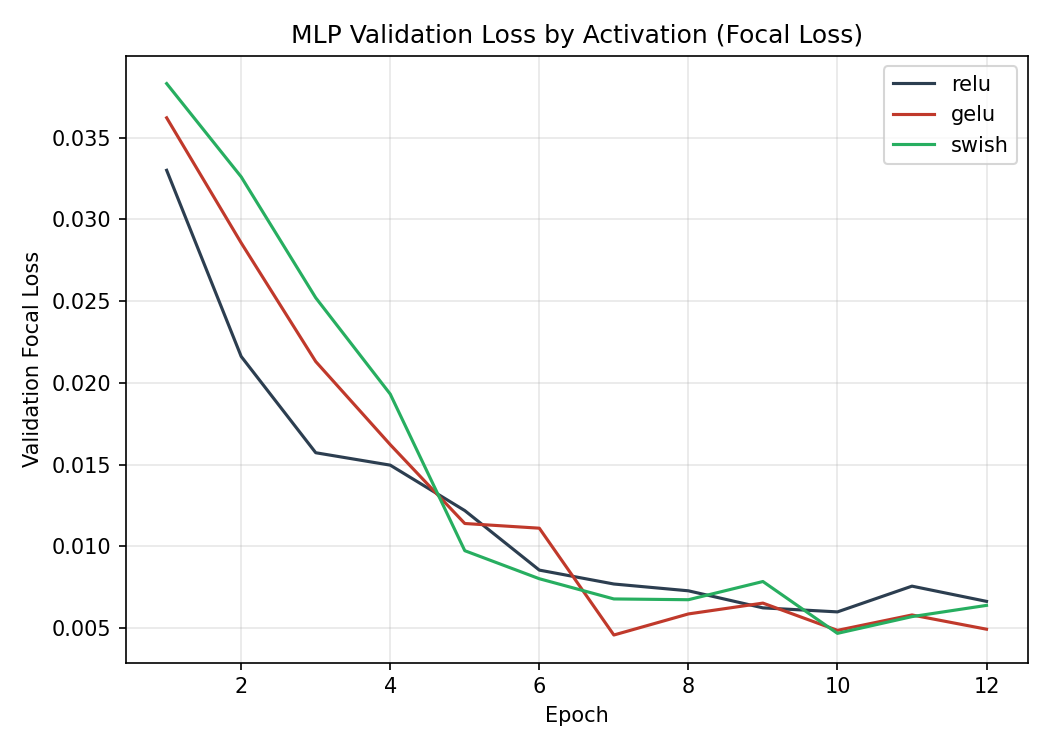
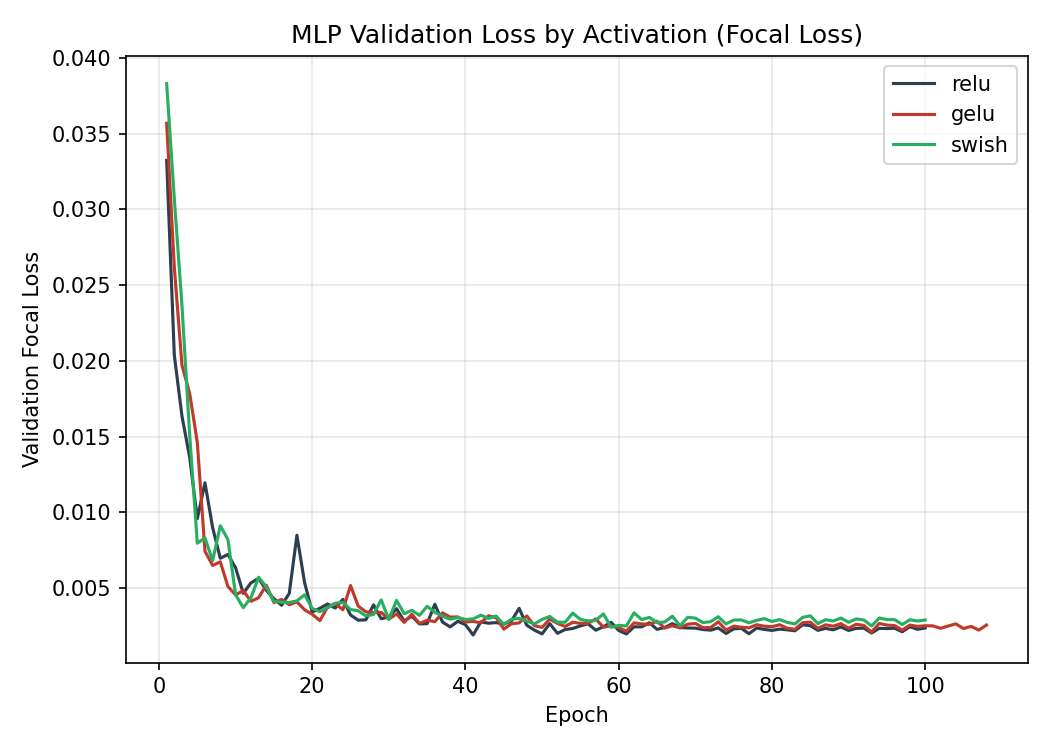
E-commerce fraud MLP: early stopping after 100 epochs, checkpoints, validation-based selection
Each activation trains at least 100 epochs (max 300) with early stopping on
the time-based validation split, restores the best epoch, halves the
learning rate on plateaus and checkpoints every epoch. The activation is
picked on validation loss instead of test ROC-AUC. All three MLPs now reach
F1 0.91-0.92 (ReLU was 0.31); the tree ensemble stays deployed.

diff --git a/02-realtime-ecommerce-fraud/src/models/mlp_focal.py b/02-realtime-ecommerce-fraud/src/models/mlp_focal.py
@@ -13,12 +13,20 @@ contributes a single ``autoencoder_score`` feature. This module is a
 - A comparison across three activation functions (ReLU, GELU, Swish/SiLU) on
   identical data/splits/hyperparameters, so the choice is evidence-based
   rather than a default.
+- At least 100 epochs, then early stopping on the time-based validation
+  split with the best epoch restored, and per-epoch checkpoints so an
+  interrupted run resumes.
 
 Same feature matrix (``FULL_FEATURE_COLUMNS`` from ``train.py``, including
 the autoencoder anomaly score) and same ``evaluate()`` cost-sensitive metrics
 as the other two approaches, so all three are directly comparable.
 """
 from __future__ import annotations
+
+import copy
+import hashlib
+import json
+from pathlib import Path
 
 import numpy as np
 import torch
@@ -72,49 +80,111 @@ def _to_tensor(x: np.ndarray) -> torch.Tensor:
     return torch.tensor(np.asarray(x, dtype=np.float32))
 
 
+MIN_EPOCHS = 100  # no network stops before 100 epochs
+MAX_EPOCHS = 300
+PATIENCE = 15     # epochs without validation improvement before stopping (only after the minimum)
+LR_PATIENCE = 5
+
+
+def _fingerprint(*arrays, **config) -> str:
+    """Hash of data + config: a checkpoint is only resumed when it matches."""
+    h = hashlib.sha256()
+    for a in arrays:
+        h.update(np.ascontiguousarray(np.asarray(a, dtype=np.float32)).tobytes())
+    h.update(json.dumps(config, sort_keys=True).encode())
+    return h.hexdigest()[:16]
+
+
 def train_one_activation(
     activation: str,
     X_train: np.ndarray,
     y_train: np.ndarray,
     X_val: np.ndarray,
     y_val: np.ndarray,
-    n_epochs: int = 30,
+    n_epochs: int = MAX_EPOCHS,
     batch_size: int = 1024,
     lr: float = 1e-3,
     seed: int = 42,
+    min_epochs: int = MIN_EPOCHS,
+    patience: int = PATIENCE,
+    checkpoint_path: Path | None = None,
 ) -> tuple[FraudMLP, list[dict]]:
+    """Trains at least ``min_epochs`` epochs (or ``n_epochs`` if smaller), then
+    early-stops once validation loss has not improved for ``patience`` epochs
+    and restores the best epoch's weights (flagged ``is_best`` in the
+    history). The learning rate halves when validation stalls. With
+    ``checkpoint_path`` the full state is saved every epoch (atomic write), so
+    an interrupted run resumes where it stopped."""
     torch.manual_seed(seed)
     model = FraudMLP(n_features=X_train.shape[1], activation=activation)
     criterion = FocalLoss()
     optimizer = torch.optim.AdamW(model.parameters(), lr=lr, weight_decay=1e-4)
+    scheduler = torch.optim.lr_scheduler.ReduceLROnPlateau(optimizer, factor=0.5, patience=LR_PATIENCE)
 
     train_ds = TensorDataset(_to_tensor(X_train), _to_tensor(y_train))
-    loader = DataLoader(train_ds, batch_size=batch_size, shuffle=True)
-
+    generator = torch.Generator()
+    loader = DataLoader(train_ds, batch_size=batch_size, shuffle=True, generator=generator)
     X_val_t, y_val_t = _to_tensor(X_val), _to_tensor(y_val)
-    history = []
-    for epoch in range(n_epochs):
+
+    fp = _fingerprint(X_train, y_train, X_val, y_val, activation=activation, n_epochs=n_epochs,
+                      batch_size=batch_size, lr=lr, seed=seed, min_epochs=min_epochs, patience=patience)
+    state = {"epoch": 0, "history": [], "best_val": float("inf"), "best_epoch": 0, "best_state": None,
+             "bad_epochs": 0, "done": False}
+    if checkpoint_path is not None and Path(checkpoint_path).exists():
+        ckpt = torch.load(checkpoint_path, map_location="cpu", weights_only=False)
+        if ckpt.get("fingerprint") == fp:
+            model.load_state_dict(ckpt["model"])
+            optimizer.load_state_dict(ckpt["optimizer"])
+            scheduler.load_state_dict(ckpt["scheduler"])
+            state = ckpt["state"]
+
+    def save_checkpoint() -> None:
+        if checkpoint_path is None:
+            return
+        path = Path(checkpoint_path)
+        path.parent.mkdir(parents=True, exist_ok=True)
+        tmp = path.with_suffix(".tmp")
+        torch.save({"fingerprint": fp, "model": model.state_dict(), "optimizer": optimizer.state_dict(),
+                    "scheduler": scheduler.state_dict(), "state": state}, tmp)
+        tmp.replace(path)
+
+    while not state["done"] and state["epoch"] < n_epochs:
+        generator.manual_seed(seed + state["epoch"])  # same batch order when resuming
+        torch.manual_seed(seed + 10_000 + state["epoch"])  # reproducible dropout masks
         model.train()
         epoch_loss, n_batches = 0.0, 0
         for xb, yb in loader:
             optimizer.zero_grad()
-            logits = model(xb)
-            loss = criterion(logits, yb)
+            loss = criterion(model(xb), yb)
             loss.backward()
             optimizer.step()
             epoch_loss += loss.item()
             n_batches += 1
+        state["epoch"] += 1
 
         model.eval()
         with torch.no_grad():
-            val_logits = model(X_val_t)
-            val_loss = criterion(val_logits, y_val_t).item()
-
-        history.append({
-            "epoch": epoch + 1,
+            val_loss = criterion(model(X_val_t), y_val_t).item()
+        scheduler.step(val_loss)
+        state["history"].append({
+            "epoch": state["epoch"],
             "train_loss": epoch_loss / max(n_batches, 1),
             "val_loss": val_loss,
         })
+        if val_loss < state["best_val"] - 1e-7:
+            state.update(best_val=val_loss, best_epoch=state["epoch"], bad_epochs=0,
+                         best_state=copy.deepcopy(model.state_dict()))
+        else:
+            state["bad_epochs"] += 1
+        if state["epoch"] >= min(min_epochs, n_epochs) and state["bad_epochs"] >= patience:
+            state["done"] = True
+        save_checkpoint()
+
+    if state["best_state"] is not None:
+        model.load_state_dict(state["best_state"])
+    state["done"] = True
+    save_checkpoint()
+    history = [dict(row, is_best=row["epoch"] == state["best_epoch"]) for row in state["history"]]
     return model, history
 
 
@@ -129,16 +199,21 @@ def compare_activations(
     y_train: np.ndarray,
     X_val: np.ndarray,
     y_val: np.ndarray,
-    n_epochs: int = 30,
+    n_epochs: int = MAX_EPOCHS,
     seed: int = 42,
-) -> tuple[dict, dict, dict]:
-    """Trains one MLP per activation function on identical data/epochs and
-    returns (models, histories) keyed by activation name, so the caller can
-    evaluate every variant with the shared ``evaluate()`` cost function."""
+    min_epochs: int = MIN_EPOCHS,
+    patience: int = PATIENCE,
+    checkpoint_dir: Path | None = None,
+) -> tuple[dict, dict]:
+    """Trains one MLP per activation function on identical data and returns
+    (models, histories) keyed by activation name, each model holding the
+    weights of its best validation epoch."""
     models, histories = {}, {}
     for activation in ACTIVATIONS:
+        ckpt = None if checkpoint_dir is None else Path(checkpoint_dir) / f"mlp_focal_{activation}.ckpt"
         model, history = train_one_activation(
-            activation, X_train, y_train, X_val, y_val, n_epochs=n_epochs, seed=seed
+            activation, X_train, y_train, X_val, y_val, n_epochs=n_epochs, seed=seed,
+            min_epochs=min_epochs, patience=patience, checkpoint_path=ckpt,
         )
         models[activation] = model
         histories[activation] = history

diff --git a/02-realtime-ecommerce-fraud/tests/test_mlp_focal.py b/02-realtime-ecommerce-fraud/tests/test_mlp_focal.py
@@ -67,3 +67,47 @@ def test_compare_activations_returns_all_three_and_separates_easy_data():
         proba = predict_proba(model, X_val)
         assert proba.shape == (len(X_val),)
         assert roc_auc_score(y_val, proba) > 0.8
+
+
+def test_early_stopping_respects_minimum_epochs_and_marks_best_epoch():
+    X_train, y_train, X_val, y_val = _split(_make_synthetic_data(n=600, seed=3))
+    _model, history = train_one_activation("relu", X_train, y_train, X_val, y_val,
+                                           n_epochs=60, min_epochs=20, patience=2, seed=3)
+    assert len(history) >= 20
+    best = [h for h in history if h["is_best"]]
+    assert len(best) == 1 and best[0]["val_loss"] == min(h["val_loss"] for h in history)
+
+
+def test_interrupted_training_resumes_from_checkpoint(tmp_path, monkeypatch):
+    import pytest
+
+    X_train, y_train, X_val, y_val = _split(_make_synthetic_data(n=600, seed=4))
+    kwargs = dict(n_epochs=6, min_epochs=6, patience=50, batch_size=128, seed=4)
+    reference, ref_history = train_one_activation("gelu", X_train, y_train, X_val, y_val, **kwargs)
+
+    ckpt = tmp_path / "gelu.ckpt"
+    real_step = torch.optim.AdamW.step
+    calls = {"n": 0}
+    n_batches = -(-len(X_train) // 128)
+
+    def flaky_step(self, *args, **kw):
+        calls["n"] += 1
+        if calls["n"] > n_batches * 3:  # cut during epoch 4
+            raise KeyboardInterrupt
+        return real_step(self, *args, **kw)
+
+    monkeypatch.setattr(torch.optim.AdamW, "step", flaky_step)
+    with pytest.raises(KeyboardInterrupt):
+        train_one_activation("gelu", X_train, y_train, X_val, y_val, checkpoint_path=ckpt, **kwargs)
+    monkeypatch.setattr(torch.optim.AdamW, "step", real_step)
+
+    resumed, history = train_one_activation("gelu", X_train, y_train, X_val, y_val, checkpoint_path=ckpt, **kwargs)
+    assert [h["val_loss"] for h in history] == pytest.approx([h["val_loss"] for h in ref_history], rel=1e-5)
+    for a, b in zip(reference.state_dict().values(), resumed.state_dict().values()):
+        assert torch.allclose(a.float(), b.float(), atol=1e-6)
+
+
+def _split(data, frac=0.8):
+    X, y = data
+    cut = int(len(X) * frac)
+    return X[:cut], y[:cut], X[cut:], y[cut:]

diff --git a/02-realtime-ecommerce-fraud/src/models/train.py b/02-realtime-ecommerce-fraud/src/models/train.py
@@ -328,7 +328,8 @@ def main():
     y_train_dl = y_train_res.astype(np.float32)
 
     mlp_models, mlp_histories = compare_activations(
-        X_train_dl, y_train_dl, X_val_dl, y_val.astype(np.float32), n_epochs=12, seed=SEED
+        X_train_dl, y_train_dl, X_val_dl, y_val.astype(np.float32), seed=SEED,
+        checkpoint_dir=MODELS_DIR / "checkpoints",
     )
     mlp_metrics = {}
     for activation, model in mlp_models.items():
@@ -338,7 +339,14 @@ def main():
         mlp_metrics[activation] = evaluate(y_test, test_proba, test_df["amount_clp"].to_numpy(), act_threshold)
         print(f"  mlp[{activation}]: recall={mlp_metrics[activation]['recall']:.3f}, roc_auc={mlp_metrics[activation]['roc_auc']:.5f}")
 
-    best_activation = max(mlp_metrics, key=lambda a: mlp_metrics[a]["roc_auc"])
+    # Chosen on the validation split's best focal loss, not on test ROC-AUC: picking by test would make
+    # the test set part of model selection.
+    best_val_loss = {a: min(h["val_loss"] for h in mlp_histories[a]) for a in mlp_histories}
+    for activation, history in mlp_histories.items():
+        best = next(h for h in history if h["is_best"])
+        print(f"  mlp[{activation}]: best epoch {best['epoch']} of {len(history)}, val focal loss {best['val_loss']:.6f}")
+    best_activation = min(best_val_loss, key=best_val_loss.get)
+    print(f"  best activation (validation): {best_activation}")
     best_mlp_model = mlp_models[best_activation]
     best_mlp_proba = mlp_predict_proba(best_mlp_model, X_test_dl)
     torch.save(best_mlp_model.state_dict(), MODELS_DIR / "mlp_focal_best.pt")

diff --git a/02-realtime-ecommerce-fraud/README.es.md b/02-realtime-ecommerce-fraud/README.es.md
@@ -270,7 +270,7 @@ comparables sin ningún atajo metodológico que favorezca a uno sobre otro:
    PyTorch entrenado con **Focal Loss** (en vez de BCE plana, para
    concentrar el gradiente en los casos de fraude difíciles de separar bajo
    ~99% de desbalance), comparado entre activaciones **ReLU, GELU y
-   Swish/SiLU** sobre los mismos datos/épocas. Es un *segundo* uso
+   Swish/SiLU** sobre los mismos datos, cada una entrenada al menos 100 épocas con early stopping. Es un *segundo* uso
    independiente de PyTorch en este repo junto al autoencoder no supervisado
    (`autoencoder.py`) — el autoencoder nunca ve las etiquetas de fraude, este
    MLP se entrena directamente sobre ellas.
@@ -287,22 +287,31 @@ re-parsear JSON.
 | Ensemble de árboles | Solo CatBoost | 1,000 | 0,945 | 0,972 | 0,99990 | 0,9931 | 34.727.584 |
 | Ensemble de árboles | Solo XGBoost | 0,982 | 0,973 | 0,977 | 0,99989 | 0,9931 | 35.309.557 |
 | Ensemble de árboles | **Ensemble (en producción)** | 1,000 | 0,955 | 0,977 | 0,99989 | 0,9934 | **35.309.623** |
-| Deep learning | MLP + Focal Loss (ReLU) | 0,187 | 0,982 | 0,313 | 0,9975 | 0,894 | 34.273.989 |
-| Deep learning | MLP + Focal Loss (GELU) | 0,752 | 0,936 | 0,834 | 0,9990 | 0,907 | 33.889.776 |
-| Deep learning | MLP + Focal Loss (Swish) | 0,864 | 0,927 | 0,895 | 0,9980 | 0,916 | 32.722.146 |
+| Deep learning | MLP + Focal Loss (ReLU) | 0,910 | 0,918 | 0,914 | 0,9995 | 0,942 | 32.550.751 |
+| Deep learning | MLP + Focal Loss (GELU) | 0,926 | 0,909 | 0,917 | 0,9998 | 0,971 | 33.515.020 |
+| Deep learning | MLP + Focal Loss (Swish) | 0,909 | 0,909 | 0,909 | 0,9997 | 0,967 | 33.217.802 |
 
 Cada fila usa su propio umbral ajustado en validación, minimizando costo (no
-son comparables con un corte compartido de 0,5). Dos observaciones destacan:
-la precisión mucho más baja del baseline logístico confirma que este
-problema realmente necesita fronteras de decisión no lineales (las clases
-fraude/legítimo no son linealmente separables en este espacio de atributos);
-y entre activaciones, el recall crudo de ReLU es engañoso — su costo de
-negocio es *peor* que GELU/Swish porque logra ese recall con 471 falsas
-alarmas (CLP 1.413.000 en costo de revisión), mientras que Swish alcanza el
-mejor balance precisión/F1 de las tres variantes de MLP con muchas menos
-falsas alarmas. Ninguna variante de MLP supera la precisión casi perfecta
-del ensemble de árboles en este dataset, que es exactamente por qué el
-ensemble sigue siendo el modelo desplegado.
+son comparables con un corte compartido de 0,5). La precisión mucho más baja
+del baseline logístico confirma que este problema realmente necesita
+fronteras de decisión no lineales.
+
+**Protocolo de entrenamiento del MLP.** Cada red entrena al menos 100 épocas
+(máximo 300) sobre el train remuestreado; desde ahí, early stopping corta
+cuando la focal loss en el split de validación temporal no mejora en 15
+épocas, y se restauran los pesos de la mejor época. La tasa de aprendizaje
+baja a la mitad cuando se estanca y el estado completo se guarda en un
+checkpoint cada época, así que una corrida interrumpida retoma donde quedó.
+La activación se elige con la loss de validación (ReLU, mejor época 41; GELU
+93; Swish 59), no con el ROC-AUC de test como antes.
+
+Frente a la corrida anterior de 12 épocas fijas, las tres activaciones
+convergen al mismo lugar: F1 0,91-0,92 en las tres (ReLU tenía 0,31, con 471
+falsas alarmas) y PR-AUC 0,94-0,97 (antes 0,89-0,92). El ahorro en CLP no
+sube en todas, porque cada umbral ahora cambia menos falsas alarmas por
+algunos fraudes más no detectados: GELU ahorra CLP 33,5 millones, Swish 33,2 y
+ReLU 32,6. Ninguna alcanza la precisión casi perfecta del ensemble de
+árboles, que es por qué el ensemble sigue siendo el modelo desplegado.
 
 Vista animada de la pérdida de validación avanzando época a época para cada activación:
 

diff --git a/02-realtime-ecommerce-fraud/README.md b/02-realtime-ecommerce-fraud/README.md
@@ -255,7 +255,7 @@ shortcut favoring one of them:
 3. **Deep learning** (`src/models/mlp_focal.py`) — a supervised PyTorch MLP
    trained with **Focal Loss** (instead of plain BCE, to concentrate gradient
    on the hard-to-separate fraud cases under ~99% imbalance), compared across
-   **ReLU, GELU, and Swish/SiLU** activations on identical data/epochs. This
+   **ReLU, GELU, and Swish/SiLU** activations on identical data, each trained at least 100 epochs with early stopping. This
    is a *second*, independent use of PyTorch in this repo alongside the
    unsupervised autoencoder pre-filter (`autoencoder.py`) — the autoencoder
    never sees fraud labels, this MLP is trained directly on them.
@@ -271,21 +271,30 @@ across runs can be queried directly with SQL instead of re-parsing JSON.
 | Tree ensemble | CatBoost only | 1.000 | 0.945 | 0.972 | 0.99990 | 0.9931 | 34,727,584 |
 | Tree ensemble | XGBoost only | 0.982 | 0.973 | 0.977 | 0.99989 | 0.9931 | 35,309,557 |
 | Tree ensemble | **Ensemble (deployed)** | 1.000 | 0.955 | 0.977 | 0.99989 | 0.9934 | **35,309,623** |
-| Deep learning | MLP + Focal Loss (ReLU) | 0.187 | 0.982 | 0.313 | 0.9975 | 0.894 | 34,273,989 |
-| Deep learning | MLP + Focal Loss (GELU) | 0.752 | 0.936 | 0.834 | 0.9990 | 0.907 | 33,889,776 |
-| Deep learning | MLP + Focal Loss (Swish) | 0.864 | 0.927 | 0.895 | 0.9980 | 0.916 | 32,722,146 |
+| Deep learning | MLP + Focal Loss (ReLU) | 0.910 | 0.918 | 0.914 | 0.9995 | 0.942 | 32,550,751 |
+| Deep learning | MLP + Focal Loss (GELU) | 0.926 | 0.909 | 0.917 | 0.9998 | 0.971 | 33,515,020 |
+| Deep learning | MLP + Focal Loss (Swish) | 0.909 | 0.909 | 0.909 | 0.9997 | 0.967 | 33,217,802 |
 
 Each row uses its own validation-tuned, cost-minimizing threshold (they are
-not comparable at a shared 0.5 cutoff). Two takeaways stand out: the
-logistic baseline's much lower precision confirms this problem genuinely
-needs non-linear decision boundaries (the fraud/legit classes are not
-linearly separable in this feature space); and among activations, ReLU's
-raw recall is misleading — its business cost is *worse* than GELU/Swish
-because it buys that recall with 471 false alarms (CLP 1,413,000 in review
-cost), while Swish reaches the best precision/F1 trade-off of the three MLP
-variants at a materially cheaper false-positive count. Neither MLP variant
-beats the tree ensemble's near-perfect precision on this dataset, which is
-exactly why the ensemble remains the deployed model.
+not comparable at a shared 0.5 cutoff). The logistic baseline's much lower
+precision confirms this problem genuinely needs non-linear decision
+boundaries.
+
+**MLP training protocol.** Each network trains for at least 100 epochs (at
+most 300) on the resampled train split; after that, early stopping ends the
+run when the focal loss on the time-based validation split has not improved
+for 15 epochs, and the best epoch's weights are restored. The learning rate
+halves on plateaus and the full state is checkpointed every epoch, so an
+interrupted run resumes. The activation is chosen on validation loss (ReLU,
+best epoch 41; GELU 93; Swish 59), not on test ROC-AUC as before.
+
+Compared with the previous fixed 12-epoch run, the three activations converge
+to the same place: F1 0.91-0.92 for all three (ReLU was 0.31, with 471 false
+alarms) and PR-AUC 0.94-0.97 (was 0.89-0.92). CLP savings do not all rise,
+because each threshold now trades fewer false alarms for a few more missed
+frauds: GELU saves CLP 33.5M, Swish 33.2M, ReLU 32.6M. None of them reaches
+the tree ensemble's near-perfect precision, which is why the ensemble remains
+the deployed model.
 
 Animated view of validation loss racing across epochs for each activation:
 
